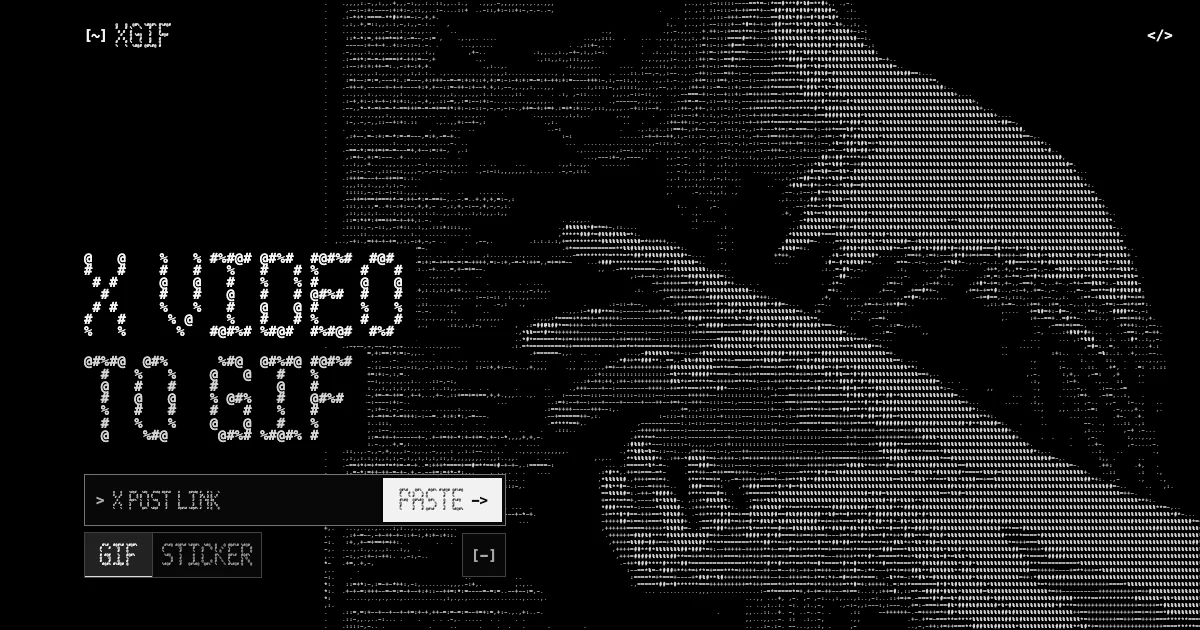
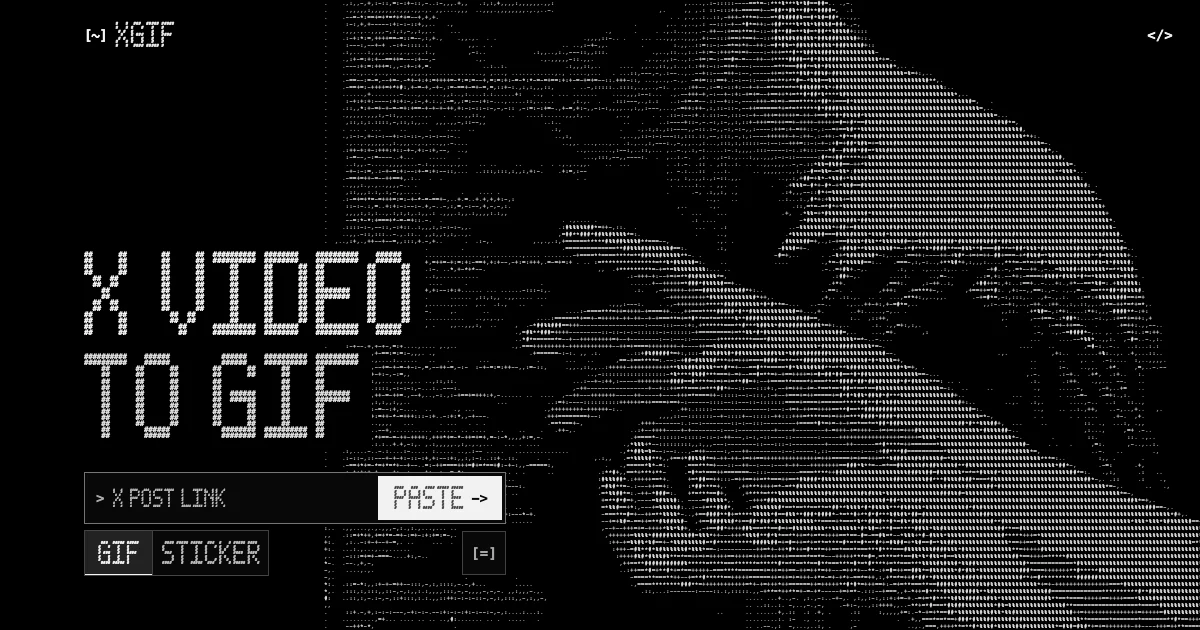
Improve ASCII typography and unify converter styling

diff --git a/src/style.css b/src/style.css
@@ -4,12 +4,15 @@
   background: #000;
   font: 14px/1.45 var(--mono);
   --muted: #aaa;
-  --border: #333;
+  --border: #414141;
   --field-border: #747474;
   --field: #101010;
+  --control: #080808;
+  --selected: #222;
   --accent: #f2f2f2;
   --gutter: clamp(24px, 7vw, 118px);
-  --mono: ui-monospace, "SF Mono", Menlo, Consolas, monospace;
+  --mono: Menlo, Consolas, "Liberation Mono", monospace;
+  --glyph-size: 4.2px;
   --ease: cubic-bezier(.2,.8,.2,1);
 }
 * { box-sizing: border-box; }
@@ -26,8 +29,8 @@ fieldset { border: 0; padding: 0; margin: 0; min-inline-size: 0; }
 .icon { flex: none; white-space: nowrap; font: 600 14px/1 var(--mono); }
 .ascii-drawing {
   display: block;
-  font: 650 var(--glyph-size, 3.65px)/.88 var(--mono);
-  letter-spacing: 0;
+  font: 700 var(--glyph-size)/.8 var(--mono);
+  letter-spacing: -.035em;
   white-space: pre;
   text-align: start;
   user-select: none;
@@ -54,7 +57,7 @@ fieldset { border: 0; padding: 0; margin: 0; min-inline-size: 0; }
   font: 600 16px/1 var(--mono);
   letter-spacing: -.06em;
 }
-.wordmark { --glyph-size: 4px; }
+.wordmark { --glyph-size: 4.5px; }
 
 .workspace {
   position: relative;
@@ -80,7 +83,7 @@ fieldset { border: 0; padding: 0; margin: 0; min-inline-size: 0; }
 
 .console { min-width: 0; width: min(100%, 422px); }
 h1 {
-  --glyph-size: clamp(9px, 1.16vw, 16px);
+  --glyph-size: clamp(5px, .63vw, 9px);
   display: grid;
   gap: 3px;
   justify-items: start;
@@ -89,15 +92,15 @@ h1 {
   line-height: 1.1;
 }
 h1 > span { position: relative; padding: 6px 14px 9px 0; background: #000; }
-h1 > span + span { color: #d5d5d5; }
+h1 > span + span { color: #e0e0e0; }
 .command {
   position: relative;
   display: flex;
   gap: 9px;
   min-height: 52px;
   align-items: center;
-  border: 1px solid #747474;
-  background: #080808;
+  border: 1px solid var(--field-border);
+  background: var(--control);
   padding: 3px 3px 3px 11px;
 }
 .command > .icon { color: var(--muted); }
@@ -111,7 +114,7 @@ h1 > span + span { color: #d5d5d5; }
   inset-inline-start: 28px;
   pointer-events: none;
   color: #c5c5c5;
-  --glyph-size: 3px;
+  --glyph-size: 3.35px;
 }
 #post:placeholder-shown:not(:focus):not([hidden]) + .command-placeholder:has(.ascii-drawing) { display: block; }
 .command:has(.command-placeholder .ascii-drawing) #post:not(:focus)::placeholder { color: transparent; }
@@ -128,21 +131,21 @@ button:disabled, fieldset:disabled .formats { opacity: .64; }
 button:active:not(:disabled) { transform: scale(.96); }
 .toolbar, .working, .result-bar { display: flex; align-items: center; justify-content: space-between; gap: 9px; }
 .action-row { margin-top: 6px; }
-#toggle-options { border-color: #414141; background: #080808; }
+#toggle-options { border-color: var(--border); background: var(--control); }
 #convert { min-width: 88px; justify-content: space-between; }
-.formats { display: flex; border: 1px solid #414141; background: #080808; }
-.formats label + label { border-left: 1px solid #414141; }
+.formats { display: flex; border: 1px solid var(--border); background: var(--control); }
+.formats label + label { border-left: 1px solid var(--border); }
 .formats label { position: relative; cursor: pointer; }
 .formats input { position: absolute; opacity: 0; width: 1px; height: 1px; }
-.formats label > span { display: grid; min-width: 67px; min-height: 44px; padding-inline: 9px; place-items: center; color: var(--muted); font-size: 13px; text-align: center; }
-.formats input:checked + span { background: #222; color: #fff; font-weight: 630; box-shadow: inset 0 -1px #ddd; }
+.formats label > span { display: grid; min-width: 67px; min-height: 44px; padding-inline: 9px; place-items: center; color: #c8c8c8; font-size: 13px; text-align: center; }
+.formats input:checked + span { background: var(--selected); color: #fff; font-weight: 630; box-shadow: inset 0 -1px var(--accent); }
 .formats input:focus-visible + span { outline: 2px solid var(--accent); outline-offset: -2px; }
 .clip-picker, .trim-options { display: grid; gap: 8px; margin-top: 12px; color: var(--muted); font-size: 13px; }
-.trim-options { --glyph-size: 3.15px; grid-template-columns: repeat(2, minmax(0, 1fr)); }
+.trim-options { --glyph-size: 3.6px; grid-template-columns: repeat(2, minmax(0, 1fr)); }
 .trim-options input, select { display: block; width: 100%; min-height: 44px; margin-top: 5px; padding: 7px 9px; border: 1px solid var(--field-border); border-radius: 0; background: var(--field); color: inherit; font-size: 16px; }
 dialog {
   width: min(100% - 32px, 360px); max-width: none; padding: 16px;
-  border: 1px solid #747474; background: #101010; color: inherit;
+  border: 1px solid var(--field-border); background: var(--field); color: inherit;
   overscroll-behavior: contain;
 }
 dialog::backdrop { background: #0009; }
@@ -151,9 +154,9 @@ dialog[open] { animation: dialog-enter 140ms var(--ease) both; }
   from { opacity: 0; transform: translateY(8px); }
   to { opacity: 1; transform: translateY(0); }
 }
-.option-actions { margin-top: 12px; border: 1px solid #494949; background: #141414; }
+.option-actions { margin-top: 12px; border: 1px solid var(--border); background: var(--control); }
 .option-row { display: flex; width: 100%; min-height: 44px; align-items: center; gap: 10px; padding: 0 11px; border: 0; color: inherit; background: transparent; text-align: start; }
-.option-row:last-child { border-top: 1px solid #393939; }
+.option-row:last-child { border-top: 1px solid var(--border); }
 .option-row .chevron { display: inline-block; width: 14px; margin-inline-start: auto; color: var(--muted); }
 #toggle-trim[aria-expanded=true] .chevron { transform: rotate(90deg); }
 dialog header { display: flex; justify-content: space-between; align-items: center; gap: 8px; border-bottom: 1px solid var(--border); padding-bottom: 8px; }
@@ -171,11 +174,11 @@ progress { flex: 1; min-width: 0; height: 5px; accent-color: var(--accent); }
   gap: clamp(22px, 5vw, 70px);
   padding-top: 88px;
 }
-.workspace:has(#result:not([hidden])) h1 { --glyph-size: clamp(8.5px, .9vw, 13px); }
+.workspace:has(#result:not([hidden])) h1 { --glyph-size: clamp(4.8px, .46vw, 7px); }
 .drop-hint { display: none; position: absolute; z-index: 2; inset: 72px 12px 12px; place-items: center; border: 1px dashed var(--accent); background: #000d; color: var(--accent); pointer-events: none; }
 .workspace[data-drop] .drop-hint { display: grid; }
 #result { display: grid; width: min(100%, 600px); justify-self: end; gap: 12px; min-width: 0; }
-.preview { min-height: 130px; display: grid; place-items: center; background: #0d0d0d; overflow: hidden; }
+.preview { min-height: 130px; display: grid; place-items: center; background: var(--control); border: 1px solid var(--border); overflow: hidden; }
 .preview img { display: block; max-width: 100%; max-height: min(550px, 65svh); object-fit: contain; }
 .result-bar { flex-wrap: wrap; min-width: 0; }
 #result-size, #result-help { color: var(--muted); font-size: 13px; }
@@ -191,7 +194,7 @@ progress { flex: 1; min-width: 0; height: 5px; accent-color: var(--accent); }
   .topbar { min-height: calc(56px + env(safe-area-inset-top)); }
   .workspace { padding: clamp(135px, 44svh, 430px) max(16px, env(safe-area-inset-right)) max(22px, env(safe-area-inset-bottom)) var(--gutter); }
   .console { margin-inline: auto; }
-  h1 { --glyph-size: clamp(8.5px, 2.55vw, 11px); margin-bottom: 14px; }
+  h1 { --glyph-size: clamp(4.6px, 1.36vw, 6px); margin-bottom: 14px; }
   .hero-art { width: 100%; --crop-x: .54; --crop-y: .19; }
   .workspace:has(#result:not([hidden])) { grid-template-columns: minmax(0, 1fr); align-content: start; padding-top: 72px; }
   #result { justify-self: center; }

diff --git a/src/ascii-type.js b/src/ascii-type.js
@@ -29,16 +29,18 @@ const font = {
 };
 
 const height = 7;
-const texture = '@#%#';
-
-function letterRows(text) {
+function letterRows(text, banner) {
+  const repeat = banner ? 2 : 1;
   const letters = [...text.toUpperCase()].map(character => font[character]);
-  return Array.from({ length: height }, (_, row) => letters.map((letter, index) => {
-    if (!letter) return '  ';
-    return Array.from({ length: 5 }, (_, column) => (
-      (letter[row] & (16 >> column)) ? texture[(row + index + column * 3) % texture.length] : ' '
-    )).join('');
-  }).join(' ').trimEnd()).join('\n');
+  const rows = Array.from({ length: height }, (_, row) => letters.map(letter => {
+    if (!letter) return ' '.repeat(2 * repeat);
+    return Array.from({ length: 5 }, (_, column) => {
+      const ink = letter[row] & (16 >> column) ? '#' : ' ';
+      return ink.repeat(repeat);
+    }).join('');
+  }).join(' '.repeat(repeat)).trimEnd());
+
+  return rows.flatMap(row => banner ? [row, row] : [row]).join('\n');
 }
 
 export function setAsciiText(element, text, displayText = text) {
@@ -49,6 +51,6 @@ export function setAsciiText(element, text, displayText = text) {
   const drawing = document.createElement('span');
   drawing.className = 'ascii-drawing';
   drawing.setAttribute('aria-hidden', 'true');
-  drawing.textContent = letterRows(displayText);
+  drawing.textContent = letterRows(displayText, element.parentElement?.id === 'title');
   element.replaceChildren(accessible, drawing);
 }

diff --git a/index.html b/index.html
@@ -51,7 +51,7 @@
                 <label><input type="radio" name="format" value="webp"><span data-ascii>Sticker</span></label>
               </fieldset>
               <button id="toggle-options" class="icon-button" type="button" aria-label="Options" title="Options" aria-haspopup="dialog" aria-expanded="false" aria-controls="options">
-                <span class="icon" aria-hidden="true">[-]</span>
+                <span class="icon" aria-hidden="true">[=]</span>
               </button>
             </div>
             <label id="clip-picker" class="clip-picker" hidden><span data-ascii>Video in post</span><select id="clip"></select></label>
